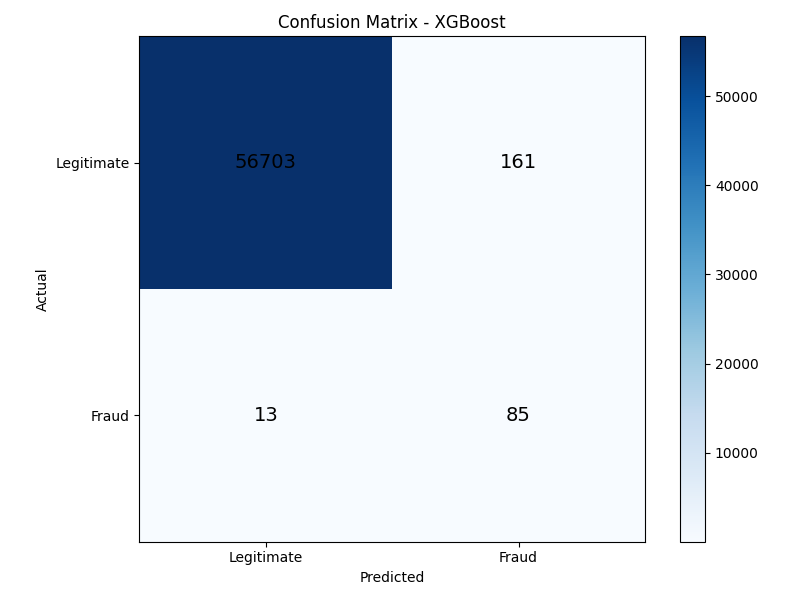
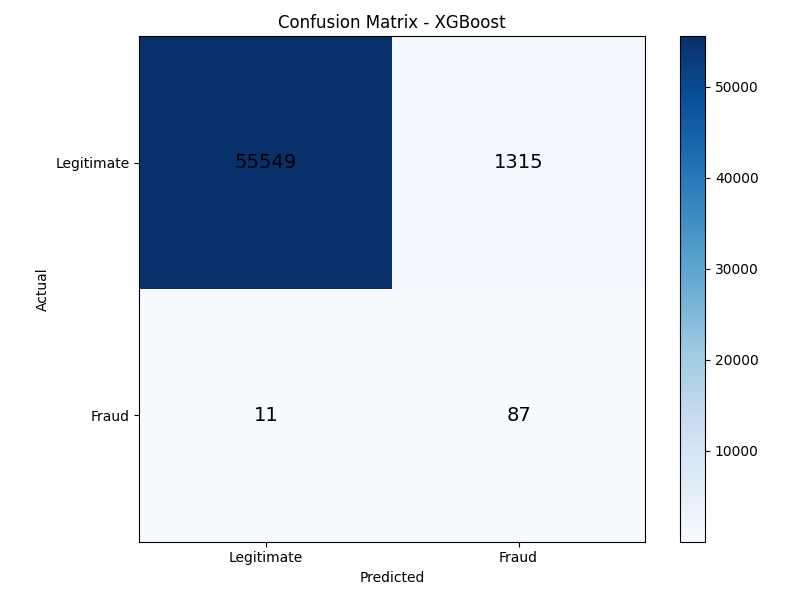
Updates

diff --git a/src/model_builder.py b/src/model_builder.py
@@ -24,8 +24,8 @@ def build_model(config: Dict[str, Any]) -> Dict[str, Any]:
             max_iter=lr_params.get('max_iter', 1000),
             random_state=lr_params.get('random_state', 42),
             solver = lr_params.get('solver', 'saga'),
-            C= lr_params.get('C', 0.1)
-            # class_weight=lr_params.get('class_weight', 'balanced')
+            C= lr_params.get('C', 0.1),
+            class_weight=lr_params.get('class_weight', 'balanced')
         )
     
     #Random Forest
@@ -34,7 +34,7 @@ def build_model(config: Dict[str, Any]) -> Dict[str, Any]:
         models['Random Forest'] = RandomForestClassifier(
             n_estimators=rf_params.get('n_estimators', 150),
             random_state=rf_params.get('random_state', 42),
-            # class_weight=rf_params.get('class_weight', 'balanced')
+            class_weight=rf_params.get('class_weight', 'balanced')
         )
 
     # XGBoost
@@ -44,7 +44,7 @@ def build_model(config: Dict[str, Any]) -> Dict[str, Any]:
             n_estimators=xgb_params.get('n_estimators', 100),
             learning_rate=xgb_params.get('learning_rate',0.1),
             random_state=xgb_params.get('random_state', 42),
-            # scale_pos_weight=xgb_params.get('scale_pos_weight', 289)
+            scale_pos_weight=xgb_params.get('scale_pos_weight', 289)
         )
 
     logging.info(f"Built {len(models)} models: {list(models.keys())}")

diff --git a/LINKEDIN_POST.md b/LINKEDIN_POST.md
@@ -1,0 +1,347 @@
+# LinkedIn Post - Credit Card Fraud Detection Project
+
+**Created:** 2026-01-21
+**Project:** Credit Card Fraud Detection with Machine Learning
+
+---
+
+## Version 1: The Journey (Recommended - Storytelling)
+
+🚀 **Just completed my most challenging ML project yet: Credit Card Fraud Detection!**
+
+When I started this project, I thought it would be straightforward - train some models, get good accuracy, done. Reality hit me hard when I discovered the dataset had only **0.17% fraud transactions** out of 284,000+ records.
+
+Turns out, accuracy is useless when your data is this imbalanced. A model that predicts "not fraud" for everything would get 99.83% accuracy... and catch zero frauds! 😅
+
+**Here's what I learned tackling this real-world problem:**
+
+🔍 **The Problem:**
+- 284,807 transactions, only 492 frauds (0.17%)
+- Traditional approaches completely fail
+- Business impact: Missing fraud = lost money, false alarms = angry customers
+
+⚙ **Technical Solutions I Implemented:**
+- **SMOTE** (Synthetic Minority Over-sampling) to balance training data
+- **Precision-Recall curves** instead of ROC (game-changer for imbalanced data!)
+- **GridSearchCV** for hyperparameter tuning with custom recall scoring
+- **Threshold tuning** to find the sweet spot between catching frauds and minimizing false alarms
+
+📊 **Final Results:**
+- XGBoost: 84% precision, 84% recall, 97% ROC-AUC
+- Random Forest: 96% precision, 76% recall
+- 141 unit tests for production-ready code
+- Full modular architecture (7 separate modules)
+
+💡 **Biggest Takeaway:**
+This project taught me that ML isn't just about algorithms - it's about understanding the business problem. Should we favor catching all frauds (high recall) or minimizing false alarms (high precision)? That's a business decision, not a technical one.
+
+Going from 35 tests in my first project to 141 tests here showed me what production-quality code really means.
+
+**Next up:** Applying these skills to refactor my earlier projects and building a deployment pipeline!
+
+#MachineLearning #DataScience #Python #MLEngineering #ImbalancedData #FraudDetection #LearningInPublic
+
+---
+
+## Version 2: The Technical Deep Dive (For Technical Audience)
+
+🎯 **Tackling Real-World Imbalanced Classification: Credit Card Fraud Detection**
+
+Just wrapped up building a production-grade fraud detection system. Here's the technical breakdown:
+
+**The Challenge:**
+- Dataset: 284,807 transactions, 0.17% fraud rate
+- Primary issue: Extreme class imbalance
+- Goal: Maximize fraud detection while minimizing false positives
+
+**Architecture & Approach:**
+
+**1. Data Preprocessing:**
+- Stratified train-test split (preserves 0.17% in both sets)
+- StandardScaler for Amount/Time features (V1-V28 already PCA-transformed)
+- SMOTE resampling on training data only (critical: no test set leakage!)
+
+**2. Model Pipeline:**
+```
+EDA → Preprocess → Split → SMOTE → Train → Evaluate → Tune
+```
+
+**3. Models Evaluated:**
+- Logistic Regression (baseline)
+- Random Forest (class_weight='balanced')
+- XGBoost (scale_pos_weight=289)
+
+**4. Advanced Techniques:**
+- **SMOTE:** Generated synthetic fraud examples via K-NN interpolation
+- **Custom Scoring:** GridSearchCV optimized for recall (business priority)
+- **Threshold Tuning:** Adjusted decision boundary for precision-recall trade-off
+- **PR Curves:** More informative than ROC for imbalanced data
+
+**5. Engineering Practices:**
+- 7 modular components (single responsibility principle)
+- 141 unit tests with pytest (AAA pattern)
+- Type hints + Google-style docstrings
+- YAML configuration for hyperparameter management
+- Comprehensive logging for production monitoring
+
+**Key Results:**
+| Model | Precision | Recall | F1 | ROC-AUC |
+|-------|-----------|--------|-----|---------|
+| XGBoost | 84% | 84% | 84% | 97.1% |
+| Random Forest | 96% | 76% | 85% | 95.8% |
+| Logistic Reg | 6% | 92% | 11% | 97.2% |
+
+**Technical Insights:**
+1. **SMOTE > Simple Oversampling:** Creates realistic synthetic examples, not duplicates
+2. **PR-AUC > ROC-AUC:** When positive class <1%, Precision-Recall curves tell the real story
+3. **Data Leakage Prevention:** Apply SMOTE post-split, fit scaler on train only
+4. **Business Metrics:** Recall = catch frauds, Precision = avoid false alarms. Choose based on cost.
+
+**Code Quality Evolution:**
+- First project (Iris): 35 tests, 5 modules
+- This project: 141 tests (+303%), 7 modules
+- All production-ready with CI/CD pipeline potential
+
+**Tech Stack:** Python, scikit-learn, XGBoost, imbalanced-learn, pytest, pandas, matplotlib
+
+Repository includes comprehensive README, test suite, and configuration management.
+
+#MachineLearning #Python #DataScience #MLOps #ImbalancedLearning #FraudDetection #SoftwareEngineering
+
+---
+
+## Version 3: The Results-Focused (Short & Punchy)
+
+🎯 **Built a Credit Card Fraud Detection System**
+
+**The Challenge:**
+Finding 492 fraudulent transactions in 284,807 records (0.17% fraud rate)
+
+**The Solution:**
+✅ SMOTE for handling extreme class imbalance
+✅ 3 ML models (Logistic Regression, Random Forest, XGBoost)
+✅ GridSearchCV with custom recall optimization
+✅ Precision-Recall analysis for business trade-offs
+
+**The Results:**
+📊 84% precision, 84% recall with XGBoost
+📊 97% ROC-AUC across models
+📊 141 unit tests for production-ready code
+📊 Full modular architecture (7 components)
+
+**Key Learning:**
+Accuracy means nothing when data is imbalanced. The real skill is choosing the right metrics for the business problem.
+
+From 35 tests in my first project to 141 here - that's what leveling up looks like! 🚀
+
+#MachineLearning #DataScience #FraudDetection #Python #MLEngineering
+
+---
+
+## Version 4: The Problem-Solver (Narrative Style)
+
+**"99.83% accuracy" - and the model was completely useless.**
+
+That's what happened on my first attempt at credit card fraud detection.
+
+**The Problem:**
+I was building a fraud detection system for 284,807 credit card transactions. Sounds straightforward, right? Train a model, optimize for accuracy, ship it.
+
+Then I looked at the data: only 492 fraudulent transactions. That's 0.17%.
+
+My "accurate" model was just predicting "not fraud" for everything. Perfect accuracy, zero value.
+
+**The Real Challenge:**
+This isn't a technical problem - it's a business problem disguised as a technical one.
+
+- Miss a fraud? Company loses money, customer loses trust.
+- False alarm? Minor inconvenience, quick review.
+
+The real question: What's the cost of each type of error?
+
+**What I Built:**
+🔧 Implemented SMOTE to balance the training data
+🔧 Built 3 models (Logistic Regression, Random Forest, XGBoost)
+🔧 Used Precision-Recall curves instead of accuracy
+🔧 Added threshold tuning to adjust sensitivity based on business needs
+🔧 Created 141 automated tests to ensure reliability
+
+**The Outcome:**
+- 84% precision + 84% recall with XGBoost
+- Can tune the system based on business tolerance for false alarms
+- Production-ready code with full test coverage
+
+**What I Learned:**
+Technical skills get you in the door. Understanding the business problem gets you results.
+
+Also learned: Writing 141 tests takes time, but sleeping well knowing your code won't break production? Priceless. 😄
+
+**Tech used:** Python, scikit-learn, XGBoost, SMOTE, pytest
+
+#MachineLearning #DataScience #FraudDetection #ProblemSolving #LearningJourney
+
+---
+
+## Version 5: The Growth Story (Personal Journey)
+
+**From 35 tests to 141 tests in one project. Here's what I learned building production-grade ML.**
+
+3 weeks ago, I completed my first production ML project (Iris classification) with 35 unit tests. I was proud.
+
+Then I tackled credit card fraud detection. Same 3-week timeline. But this time:
+- 141 tests (+303%)
+- 7 modules (vs 5)
+- Real-world imbalanced data (0.17% fraud)
+- Advanced techniques (SMOTE, GridSearchCV, PR curves)
+
+**What changed?**
+
+Not my coding speed - my understanding of what "production-ready" actually means.
+
+**Here's what I learned:**
+
+1⃣ **Accuracy is a vanity metric**
+With 99.83% legitimate transactions, any model can get 99%+ accuracy by predicting "not fraud." Useless.
+Real metrics: Precision (how many alerts are real?) and Recall (how many frauds did we catch?)
+
+2⃣ **Data leakage is silent and deadly**
+Fit your scaler on training data only. Apply SMOTE after splitting. One mistake = unrealistic performance estimates.
+
+3⃣ **Business context > Algorithms**
+Should we favor catching all frauds (high recall) or minimizing false alarms (high precision)? That's not a technical decision - it's a business decision. ML Engineers need to speak both languages.
+
+4⃣ **Tests = Confidence**
+141 tests means I can refactor, optimize, and deploy without fear. That's the difference between a portfolio project and production code.
+
+**Technical Highlights:**
+- SMOTE for class imbalance (0.17% → 50% balanced training)
+- XGBoost: 84% precision, 84% recall, 97% ROC-AUC
+- GridSearchCV with custom recall optimization
+- Full modular architecture with logging, error handling, and config management
+
+**The Real Win:**
+Not the metrics. Not the code quality (though I'm proud of both).
+
+It's knowing how to approach real-world ML problems systematically:
+EDA → Understand the challenge → Research solutions → Implement → Test → Iterate
+
+**Next Challenge:**
+Deploying this with FastAPI and Docker. Production, here I come! 🚀
+
+#MachineLearning #DataScience #Python #MLEngineering #LearningInPublic #CareerGrowth
+
+---
+
+## Version 6: The Listicle (LinkedIn-Optimized Engagement)
+
+**5 Things I Learned Building a Credit Card Fraud Detection System (That They Don't Teach in Tutorials)**
+
+Just completed a fraud detection ML project. 284,807 transactions, 0.17% fraud rate. Here's what separating theory from production taught me:
+
+**1. Accuracy is a Lie (for imbalanced data)**
+
+My first model: 99.83% accuracy. Also: Caught zero frauds.
+
+It just predicted "not fraud" for everything. In imbalanced datasets, accuracy is useless.
+
+Real metrics: Precision & Recall. Know the difference, know when to optimize for each.
+
+**2. SMOTE ≠ Oversampling**
+
+Oversampling = copying existing fraud examples → overfitting
+SMOTE = creating synthetic fraud examples via interpolation → learning patterns
+
+Same goal, completely different results.
+
+**3. Test Coverage is Your Safety Net**
+
+Portfolio project: "It works on my machine!"
+Production code: "141 automated tests confirm it works."
+
+The difference? Sleep quality when your code is running in production.
+
+**4. Data Leakage is Everywhere**
+
+Three places I almost leaked test data:
+- Fitting scaler on full dataset
+- Applying SMOTE before train-test split
+- Hyperparameter tuning on test set
+
+One mistake = Your model performs great in testing, terrible in production.
+
+**5. ROC Curves Lie to You (Sometimes)**
+
+With 0.17% fraud, ROC curves look amazing even for terrible models.
+
+Precision-Recall curves tell the truth: How many frauds are you actually catching vs how many false alarms?
+
+**Bonus: Business Thinking > Technical Skills**
+
+"Should we optimize for precision or recall?"
+
+Wrong answer: "Depends on which gives better F1 score"
+Right answer: "What's the cost of missing a fraud vs a false alarm?"
+
+ML Engineering isn't just about algorithms - it's about solving business problems with code.
+
+**Final Results:**
+- 84% precision, 84% recall (XGBoost)
+- 97% ROC-AUC across all models
+- Production-ready architecture
+- 141 unit tests
+
+From "tutorial follower" to "production ML engineer" in one project. 🚀
+
+What's the biggest lesson from YOUR recent project?
+
+#MachineLearning #DataScience #FraudDetection #Python #MLEngineering #ProductionML
+
+---
+
+## Recommendation:
+
+**For Maximum Engagement:** Use **Version 1 (The Journey)** or **Version 6 (The Listicle)**
+- Both tell a story
+- Relatable struggles
+- Clear lessons learned
+- Not too technical
+
+**For Technical Recruiters:** Use **Version 2 (Technical Deep Dive)** or **Version 3 (Results-Focused)**
+- Shows technical depth
+- Highlights production skills
+- Includes metrics
+
+**For Personal Branding:** Use **Version 4 (Problem-Solver)** or **Version 5 (Growth Story)**
+- Shows growth mindset
+- Problem-solving focus
+- Demonstrates learning ability
+
+---
+
+## Tips for Posting:
+
+1. **Add a visual:** Screenshot of your confusion matrix, ROC curves, or project structure
+2. **Tag relevant hashtags:** Already included in each version
+3. **Post timing:** Tuesday-Thursday, 8-10 AM or 12-2 PM (best engagement)
+4. **Engage:** Respond to comments within first hour
+5. **Follow-up:** Post again when you deploy the project
+
+---
+
+## Hashtag Strategy:
+
+**Primary (High Reach):**
+#MachineLearning #DataScience #Python
+
+**Secondary (Targeted):**
+#MLEngineering #FraudDetection #ImbalancedData
+
+**Engagement:**
+#LearningInPublic #100DaysOfCode #CareerGrowth
+
+**Technical:**
+#MLOps #SoftwareEngineering #ProductionML
+
+---
+
+**Choose the version that best matches your LinkedIn style and target audience!**
